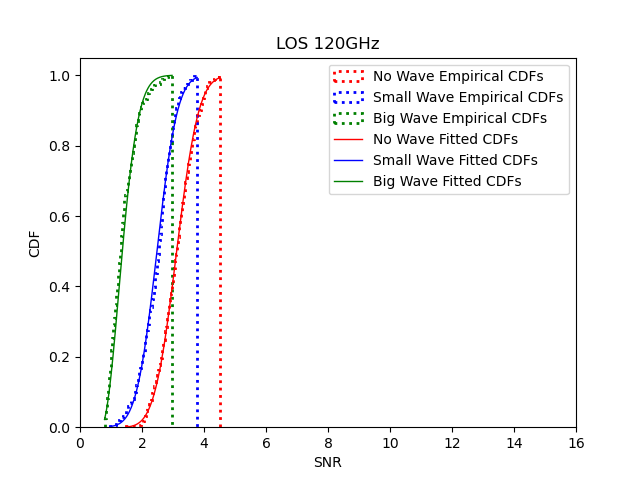
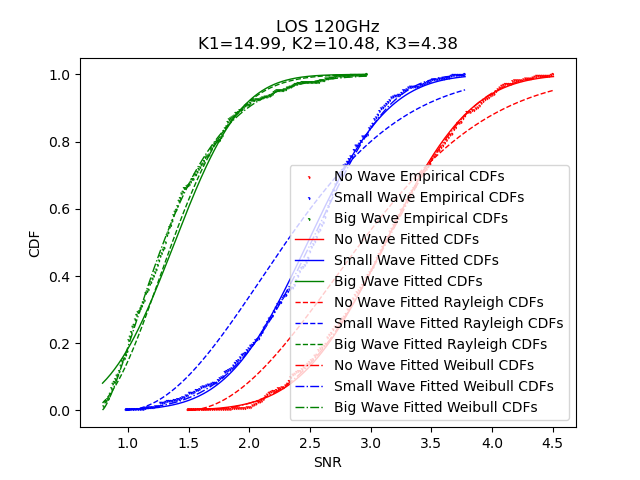
update cdf

diff --git a/cdf.py b/cdf.py
@@ -1,6 +1,6 @@
 import numpy as np
 import matplotlib.pyplot as plt
-from scipy.stats import rice
+from scipy.stats import rice, rayleigh, weibull_min
 import os
 
 
@@ -33,42 +33,84 @@ def cdf_rice(data_list, save_path=None, title=None, noice_level=None):
     power13 = np.array(data13_linear)
 
     x_values1 = np.linspace(min(power11), max(power11), 200)
-    cdf_rician1 = rice.cdf(x_values1, *rice.fit(power11))
+    rice_params1 = rice.fit(power11, floc=0)
+    shape_param1, _, _ = rice_params1
+    k_factor1 = (shape_param1 ** 2) / 2
+    cdf_rician1 = rice.cdf(x_values1, *rice_params1)
+    cdf_rayleigh1 = rayleigh.cdf(x_values1, *rayleigh.fit(power11))
+    cdf_weibull1 = weibull_min.cdf(x_values1, *weibull_min.fit(power11))
 
     x_values2 = np.linspace(min(power12), max(power12), 200)
-    cdf_rician2 = rice.cdf(x_values2, *rice.fit(power12))
+    rice_params2 = rice.fit(power12, floc=0)
+    shape_param2, _, _ = rice_params2
+    k_factor2 = (shape_param2 ** 2) / 2
+    cdf_rician2 = rice.cdf(x_values2, *rice_params2)
+    cdf_rayleigh2 = rayleigh.cdf(x_values2, *rayleigh.fit(power12))
+    cdf_weibull2 = weibull_min.cdf(x_values2, *weibull_min.fit(power12))
 
     x_values3 = np.linspace(min(power13), max(power13), 200)
-    cdf_rician3 = rice.cdf(x_values3, *rice.fit(power13))
+    rice_params3 = rice.fit(power13, floc=0)
+    shape_param3, _, _ = rice_params3
+    k_factor3 = (shape_param3 ** 2) / 2
+    cdf_rician3 = rice.cdf(x_values3, *rice_params3)
+    cdf_rayleigh3 = rayleigh.cdf(x_values3, *rayleigh.fit(power13))
+    cdf_weibull3 = weibull_min.cdf(x_values3, *weibull_min.fit(power13))
 
     # Plotting the empirical and fitted CDFs
     plt.figure()
     plt.grid(False)
 
     # Plot empirical CDFs
-    h1 = plt.hist(power11, bins=200, density=True, cumulative=True, histtype='step', color='r', linestyle=':',
-                  linewidth=2, label='No Wave Empirical CDFs')
-    h2 = plt.hist(power12, bins=200, density=True, cumulative=True, histtype='step', color='b', linestyle=':',
-                  linewidth=2, label='Small Wave Empirical CDFs')
-    h3 = plt.hist(power13, bins=200, density=True, cumulative=True, histtype='step', color='g', linestyle=':',
-                  linewidth=2, label='Big Wave Empirical CDFs')
+    # h1 = plt.hist(power11, bins=200, density=True, cumulative=True, histtype='step', color='r', linestyle=':',
+    #               linewidth=2, label='No Wave Empirical CDFs')
+    # h2 = plt.hist(power12, bins=200, density=True, cumulative=True, histtype='step', color='b', linestyle=':',
+    #               linewidth=2, label='Small Wave Empirical CDFs')
+    # h3 = plt.hist(power13, bins=200, density=True, cumulative=True, histtype='step', color='g', linestyle=':',
+    #               linewidth=2, label='Big Wave Empirical CDFs')
+
+    counts11, bins11 = np.histogram(power11, bins=200, density=True)
+    counts12, bins12 = np.histogram(power12, bins=200, density=True)
+    counts13, bins13 = np.histogram(power13, bins=200, density=True)
+
+    # 计算累积分布
+    cdf11 = np.cumsum(counts11) / np.sum(counts11)
+    cdf12 = np.cumsum(counts12) / np.sum(counts12)
+    cdf13 = np.cumsum(counts13) / np.sum(counts13)
+
+    # 计算 bin 的中心点
+    bin_centers11 = (bins11[:-1] + bins11[1:]) / 2
+    bin_centers12 = (bins12[:-1] + bins12[1:]) / 2
+    bin_centers13 = (bins13[:-1] + bins13[1:]) / 2
+
+    # 绘制散点图
+    plt.scatter(bin_centers11, cdf11, color='r', s=0.5, linestyle=':', linewidth=1.5, label='No Wave Empirical CDFs')
+    plt.scatter(bin_centers12, cdf12, color='b', s=0.5, linestyle=':', linewidth=1.5, label='Small Wave Empirical CDFs')
+    plt.scatter(bin_centers13, cdf13, color='g', s=0.5, linestyle=':', linewidth=1.5, label='Big Wave Empirical CDFs')
 
     # Plot fitted Rician CDFs
     plt.plot(x_values1, cdf_rician1, 'r-', linewidth=1, label='No Wave Fitted CDFs')
     plt.plot(x_values2, cdf_rician2, 'b-', linewidth=1, label='Small Wave Fitted CDFs')
     plt.plot(x_values3, cdf_rician3, 'g-', linewidth=1, label='Big Wave Fitted CDFs')
 
+    plt.plot(x_values1, cdf_rayleigh1, 'r--', linewidth=1, label='No Wave Fitted Rayleigh CDFs')
+    plt.plot(x_values2, cdf_rayleigh2, 'b--', linewidth=1, label='Small Wave Fitted Rayleigh CDFs')
+    plt.plot(x_values3, cdf_rayleigh3, 'g--', linewidth=1, label='Big Wave Fitted Rayleigh CDFs')
+
+    plt.plot(x_values1, cdf_weibull1, 'r-.', linewidth=1, label='No Wave Fitted Weibull CDFs')
+    plt.plot(x_values2, cdf_weibull2, 'b-.', linewidth=1, label='Small Wave Fitted Weibull CDFs')
+    plt.plot(x_values3, cdf_weibull3, 'g-.', linewidth=1, label='Big Wave Fitted Weibull CDFs')
+
     # # plt Power11, Power12, Power13, x-axis is the Number
     # plt.plot(np.arange(rmax1), Power11, 'r-', linewidth=1, label='No Wave Power')
     # plt.plot(np.arange(rmax1), Power12, 'b-', linewidth=1, label='Small Wave Power')
     # plt.plot(np.arange(rmax1), Power13, 'g-', linewidth=1, label='Big Wave Power')
 
-    plt.xlabel('SNR')
+    plt.xlabel(f'SNR')
     plt.ylabel('CDF')
-    plt.xlim([0, 16])
+    # plt.xlim([0, 16])
     plt.legend()
     if title is not None:
-        plt.title(title)
+        plt.title(title + f"\nK1={k_factor1:.2f}, K2={k_factor2:.2f}, K3={k_factor3:.2f}")
     if save_path is not None:
         plt.savefig(save_path)
     plt.show()

diff --git a/Rician_fitting140.m b/Rician_fitting140.m
@@ -32,9 +32,15 @@ end
     pd_rician1 = fitdist(power11, 'Rician');
     cdf_rician1 = cdf(pd_rician1, x_values1);
 
-    x_values2 = linspace(min(power12), max(power12), 200);
-    pd_rician2 = fitdist(power12, 'Rician');
-    cdf_rician2 = cdf(pd_rician2, x_values2);
+    pd_Rayleigh1 = fitdist(power11, 'Rayleigh');
+    cdf_Rayleigh1 = cdf(pd_Rayleigh1, x_values1);
+
+    pd_Weibull1 = fitdist(power11, 'Weibull');
+    cdf_Weibull1 = cdf(pd_Weibull1, x_values1);
+% 
+%     x_values2 = linspace(min(power12), max(power12), 200);
+%     pd_rician2 = fitdist(power12, 'Rician');
+%     cdf_rician2 = cdf(pd_rician2, x_values2);
 
 %     x_values3 = linspace(min(power13), max(power13), 200);
 %     pd_rician3 = fitdist(power13, 'Rician');
@@ -45,10 +51,12 @@ end
     set(h1,'color','k','LineStyle',':','LineWidth',2);
     hold on
     plot(x_values1, cdf_rician1, 'r-', 'LineWidth', 1);
-
-    h2 = cdfplot(power12); % Empirical CDF
-    set(h2,'color','k','LineStyle',':','LineWidth',2);
-    plot(x_values2, cdf_rician2, 'b-', 'LineWidth', 1);
+    plot(x_values1, cdf_Rayleigh1, 'b-', 'LineWidth', 1);
+    plot(x_values1, cdf_Weibull1, 'g-', 'LineWidth', 1);
+% 
+%     h2 = cdfplot(power12); % Empirical CDF
+%     set(h2,'color','k','LineStyle',':','LineWidth',2);
+%     plot(x_values2, cdf_rician2, 'b-', 'LineWidth', 1);
 
 %     h3 = cdfplot(power13); % Empirical CDF
 %     set(h3,'color','k','LineStyle',':','LineWidth',2);
@@ -71,5 +79,6 @@ end
     % text(4.8,0.7,tex,'Color','r',"FontSize",10);
     xlabel('SNR');
     ylabel('CDF')
-    xlim([4 5])
+    legend('Sine Wave', 'Cosine Wave');
+%     xlim([4 5])
 grid off;
